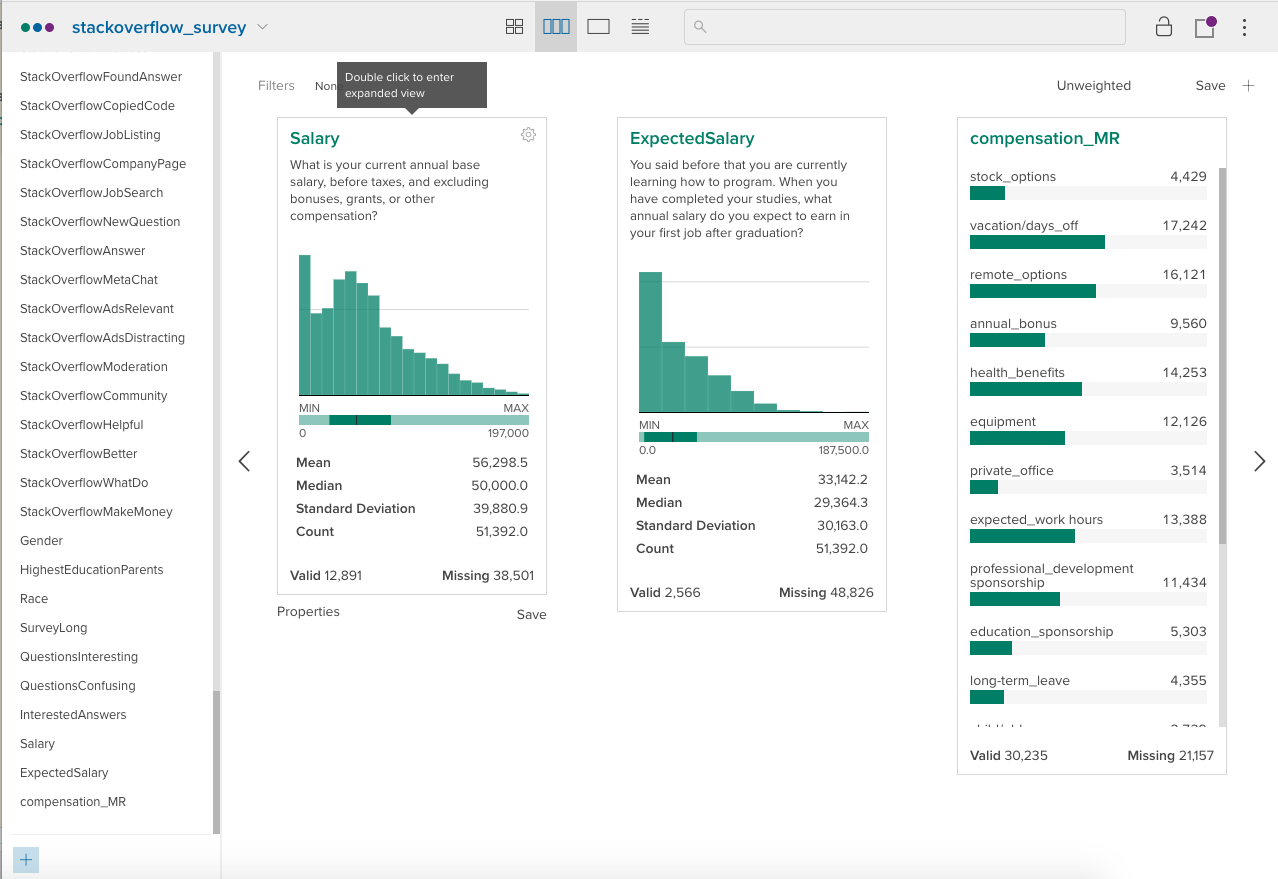
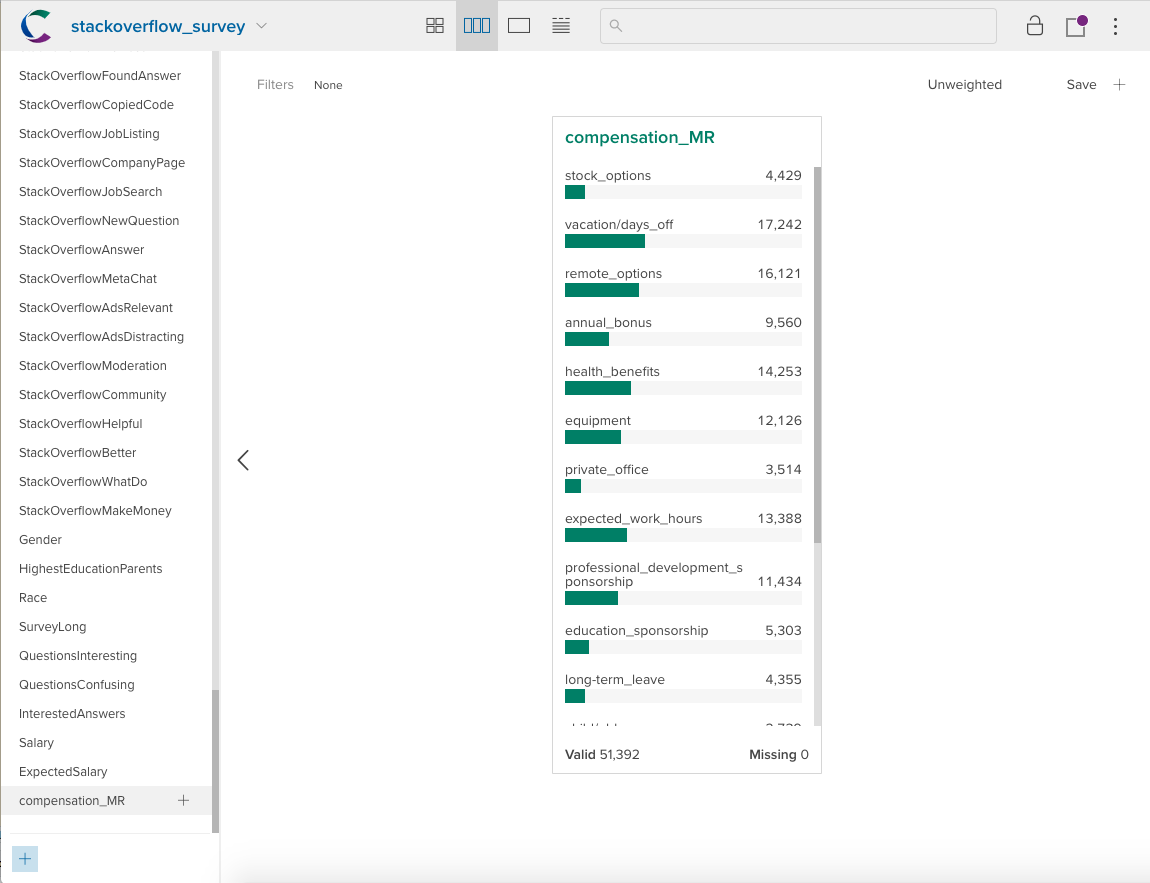
Various updates
- Show some NAs as unanswered
- Remove section on reordering MR subvariables
- Link to SO dataset
- Update clustering code to make it runnable with crplyr

diff --git a/content/dev/blog/analysing-so-data.md b/content/dev/blog/analysing-so-data.md
@@ -1,12 +1,13 @@
 Analyzing the Stack Overflow developers survey in Crunch
-=======================================================
+========================================================
 
 Survey designers often use data structures which make it easy to collect survey
 responses even if those structures are somewhat difficult to analyze. The result
 is that analysts can be faced with a number of tedious or difficult tasks before
 they can actually get insight from the data. Crunch was developed to make it
 easier to work with these kinds of awkward data structures. To provide a
-concrete example, lets take a look at the Stack Overflow developer survey.
+concrete example, lets take a look at the [Stack Overflow developer
+survey](https://insights.stackoverflow.com/survey/2017).
 
 ~~~~~~~~~~~~~~~~~~~~~~~~~~~~~~~~~~~~~~~~~~~~~~~~~~~~~~~~~~~~~~~~~~~~~~~~~~~~~~ r
 library(crunch)
@@ -227,22 +228,22 @@ mr_vars <- stack_df$ImportantBenefits %>%
     map(str_to_var) %>%
     bind_rows()
 
-head(mr_vars) %>%
+head(mr_vars[, 1:5) %>%
     knitr::kable()
 ~~~~~~~~~~~~~~~~~~~~~~~~~~~~~~~~~~~~~~~~~~~~~~~~~~~~~~~~~~~~~~~~~~~~~~~~~~~~~~~~
 
-| Stock options | Vacation/days off | Remote options | Annual bonus | Health benefits | Equipment | Private office | Expected work hours | Professional development sponsorship | Education sponsorship | Long-term leave | Child/elder care | Retirement | Meals | Charitable match | Other | None of these |
-|---------------|-------------------|----------------|--------------|-----------------|-----------|----------------|---------------------|--------------------------------------|-----------------------|-----------------|------------------|------------|-------|------------------|-------|---------------|
-| selected      | selected          | selected       | NA           | NA              | NA        | NA             | NA                  | NA                                   | NA                    | NA              | NA               | NA         | NA    | NA               | NA    | NA            |
-| NA            | NA                | NA             | NA           | NA              | NA        | NA             | NA                  | NA                                   | NA                    | NA              | NA               | NA         | NA    | NA               | NA    | NA            |
-| NA            | NA                | NA             | NA           | NA              | NA        | NA             | NA                  | NA                                   | NA                    | NA              | NA               | NA         | NA    | NA               | NA    | NA            |
-| selected      | NA                | NA             | selected     | selected        | selected  | selected       | NA                  | NA                                   | NA                    | NA              | NA               | NA         | NA    | NA               | NA    | NA            |
-| NA            | NA                | NA             | NA           | NA              | NA        | NA             | NA                  | NA                                   | NA                    | NA              | NA               | NA         | NA    | NA               | NA    | NA            |
-| NA            | selected          | NA             | NA           | NA              | NA        | NA             | selected            | NA                                   | NA                    | NA              | NA               | NA         | NA    | NA               | NA    | NA            |
+| **Stock options** | **Vacation/days off** | **Remote options** | **Annual bonus** | **Health benefits** |
+|-------------------|-----------------------|--------------------|------------------|---------------------|
+| selected          | selected              | selected           | NA               | NA                  |
+| Not Answered      | Not Answered          | Not Answered       | Not Answered     | Not Answered        |
+| Not Answered      | Not Answered          | Not Answered       | Not Answered     | Not Answered        |
+| selected          | NA                    | NA                 | selected         | selected            |
+| Not Answered      | Not Answered          | Not Answered       | Not Answered     | Not Answered        |
+| NA                | selected              | NA                 | NA               | NA                  |
 
-This creates a dataframe with each multiple response option as a variable, and
-the selection indicated by either "selected" or NA. We can now convert it to a
-factors and upload it to Crunch.
+This creates a dataframe with each multiple response option as a variable with
+the selection indicated in the entries. We can now convert it to a factors and
+upload it to Crunch.
 
 ~~~~~~~~~~~~~~~~~~~~~~~~~~~~~~~~~~~~~~~~~~~~~~~~~~~~~~~~~~~~~~~~~~~~~~~~~~~~~~ r
 mr_vars[] <- map(mr_vars, as.factor)
@@ -261,68 +262,53 @@ ds$compensation_MR <- makeMR(ds[, names(mr_vars)],
 
 ![](./images/compensation_MR_screen.png)
 
-The multiple response variable card displays the multiple response variable in a
-compact, easy to understand way. We can improve this picture by reordering the
-expectations by the number of times they were selected.
-
-~~~~~~~~~~~~~~~~~~~~~~~~~~~~~~~~~~~~~~~~~~~~~~~~~~~~~~~~~~~~~~~~~~~~~~~~~~~~~~ r
-ordered_subvariables <- mr_vars %>%
-    gather(expectation, selection, na.rm = TRUE) %>%
-    group_by(expectation) %>%
-    tally(sort = TRUE) %>%
-    pull(expectation)
-subvariables(ds$compensation_MR) <-
-    subvariables(ds$compensation_MR)[ordered_subvariables]
-~~~~~~~~~~~~~~~~~~~~~~~~~~~~~~~~~~~~~~~~~~~~~~~~~~~~~~~~~~~~~~~~~~~~~~~~~~~~~~~~
-
-![](./images/sorted_mr_screen.png)
-
 ### Correcting misreported salaries
 
 Next we're going to replicate and extend a [procedure used by Evelina
 Gabasova](http://evelinag.com/blog/2017/06-20-stackoverflow-tabs-spaces-and-salary/#.We4QuxNSxTY)
 to correct for misreported salary data from Eastern Europe. Evelina noticed that
-there were discrepancies in the distributions of salary data. For some countries,
-even within countries, there was a multi-modal distribution of salaries that she
-was surprised by. In fact, for a number of countries, it looked like there were 
-two distributions, one centered at approximately 1/12 of the other. This lead 
-her to wonder if maybe some developers from countries where salaries are 
-frequently given by month had actually reported their monthly rather than yearly
-salaries. 
+there were discrepancies in the distributions of salary data. For some
+countries, even within countries, there was a multi-modal distribution of
+salaries that she was surprised by. In fact, for a number of countries, it
+looked like there were two distributions, one centered at approximately 1/12 of
+the other. This lead her to wonder if maybe some developers from countries where
+salaries are frequently given by month had actually reported their monthly
+rather than yearly salaries.
 
-Left alone, this would skew the salaries for the countries where this is common 
+Left alone, this would skew the salaries for the countries where this is common
 much lower than reality. Inspired by Evelina's approach of using mixture models,
 which she fit to the data and then corrected the low-salary group by multiplying
-by 12 to get an annualized salary, we used mixture models and a some heuristics 
-to determine which  countries had suspect distributions of salaries, and then 
-corrected those that fit this monthly-annual discrepancy. Like Evelina, we fit 
-mixture models using the [mclust package](http://www.stat.washington.edu/mclust/).
-We fit mixture models for every country, and then adjusted salaries under the 
-following conditions:
-* if there is only one mode / cluster don't adjust the salaries. This is the 
-simplest case, if there's no discrepancy there's no reason to correct.
-* if any mode / cluster of salaries only represented 10% of the population, 
-don't adjust the salaries. We found that sometimes `mclust` would find very 
-small clusters and that would produce odd results, we chose 10% here out of 
-convenience, but a more principle approach would pick a better cut off.
-* if there was more than one mode / cluster of salaries, and the lowest group's 
-salary multiplied by 12 was greater than the second lowest group's salary 
-multiplied by two, then do not attempt to adjust the salaries. Sometimes
-`mclust` would find clusters, but they would actually be fairly tightly together.
-This was likely the result of other covariates like experience, but critically,
-we didn't want to multiply junior developers' salaries by 12 just because they 
-form a distinct cluster separate from senior developers.
-* otherwise, multiply the lowest salary group by 12 to correct for apparent 
-misreporting.
+by 12 to get an annualized salary, we used mixture models and a some heuristics
+to determine which countries had suspect distributions of salaries, and then
+corrected those that fit this monthly-annual discrepancy. Like Evelina, we fit
+mixture models using the [mclust
+package](http://www.stat.washington.edu/mclust/). We fit mixture models for
+every country, and then adjusted salaries under the following conditions: \* if
+there is only one mode / cluster don't adjust the salaries. This is the simplest
+case, if there's no discrepancy there's no reason to correct. \* if any mode /
+cluster of salaries only represented 10% of the population, don't adjust the
+salaries. We found that sometimes `mclust` would find very small clusters and
+that would produce odd results, we chose 10% here out of convenience, but a more
+principle approach would pick a better cut off. \* if there was more than one
+mode / cluster of salaries, and the lowest group's salary multiplied by 12 was
+greater than the second lowest group's salary multiplied by two, then do not
+attempt to adjust the salaries. Sometimes `mclust` would find clusters, but they
+would actually be fairly tightly together. This was likely the result of other
+covariates like experience, but critically, we didn't want to multiply junior
+developers' salaries by 12 just because they form a distinct cluster separate
+from senior developers. \* otherwise, multiply the lowest salary group by 12 to
+correct for apparent misreporting.
 
-Finally, we only applied this adjustment to countries where we had at least 90 
-responses. This allowed us to be reasonably confident that there were enough 
+Finally, we only applied this adjustment to countries where we had at least 90
+responses. This allowed us to be reasonably confident that there were enough
 salaries in the sample to detect distinct clusters.
 
 ~~~~~~~~~~~~~~~~~~~~~~~~~~~~~~~~~~~~~~~~~~~~~~~~~~~~~~~~~~~~~~~~~~~~~~~~~~~~~~ r
-# this code should be adapted to be able to be run against the dataset you've 
-# got going, and within crplyr (which means adding `do()`?). It also might be 
-# cleaned up to be a bit more readable 
+library(crplyr)
+library(mclust)
+adjFrame <- ds %>% 
+    select(Salary, Country, Respondent) %>% 
+    collect()
 
 adjustSalary <- function(df) {
     res <- Mclust(df$Salary)
@@ -358,6 +344,21 @@ adjusted <- adjFrame %>%
     group_by(Country)  %>%
     filter(n() >= 90) %>%
     do(adjustSalary(.)) %>%
-    ungroup() %>%
-    right_join(adjFrame, by="Respondent")
+    ungroup() %>% 
+    right_join(adjFrame[, "Respondent"], by = "Respondent")
 ~~~~~~~~~~~~~~~~~~~~~~~~~~~~~~~~~~~~~~~~~~~~~~~~~~~~~~~~~~~~~~~~~~~~~~~~~~~~~~~~
+
+ 
+
+We can then upload the data back up to the Crunch app to see that the small
+outlying salaries have been smoothed over the rest of the distribution.
+
+ 
+
+~~~~~~~~~~~~~~~~~~~~~~~~~~~~~~~~~~~~~~~~~~~~~~~~~~~~~~~~~~~~~~~~~~~~~~~~~~~~~~~~
+ds$adjSalary <- adjusted$adjSalary
+~~~~~~~~~~~~~~~~~~~~~~~~~~~~~~~~~~~~~~~~~~~~~~~~~~~~~~~~~~~~~~~~~~~~~~~~~~~~~~~~
+
+ 
+
+![](images/adjSalary%20screen.png)
